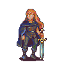
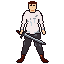
Replaced character sprites with custom graphics

Changed region(s): [[0.25, 0.0, 0.7812, 1.0]]

diff --git a/README.md b/README.md
@@ -3,8 +3,6 @@
 with use of [LibKTX](https://github.com/libktx/ktx) etension.
 
 ### Credits
-- Graphics
-  - "First Person Dungeon Crawl Protagonist" by Stephen Challener (Redshrike) licensed CC-BY 3.0, CC-BY-SA 3.0 or OGA-BY 3.0: [https://opengameart.org/content/first-person-dungeon-crawl-protagonist](https://opengameart.org/content/first-person-dungeon-crawl-protagonist)
 - Sound effects
   - "Fantasy Sound Effects Library" by [Little Robot Sound Factory](http://www.littlerobotsoundfactory.com) licensed CC-BY 3.0: [https://opengameart.org/content/fantasy-sound-effects-library](https://opengameart.org/content/fantasy-sound-effects-library)
   - "Fleshy Fight Sounds" by will_leamon licensed OGA-BY 3.0: [https://opengameart.org/content/fleshy-fight-sounds](https://opengameart.org/content/fleshy-fight-sounds)
